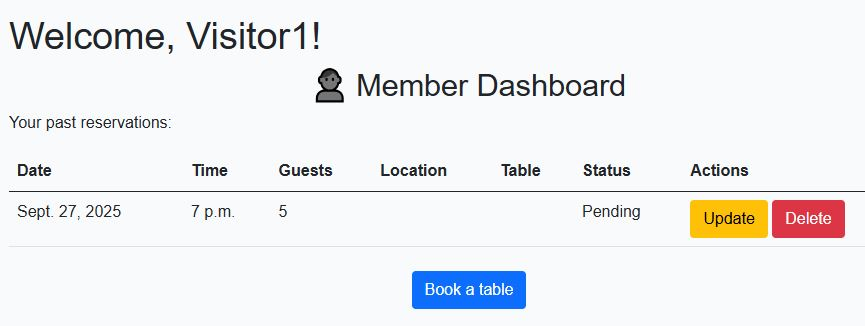
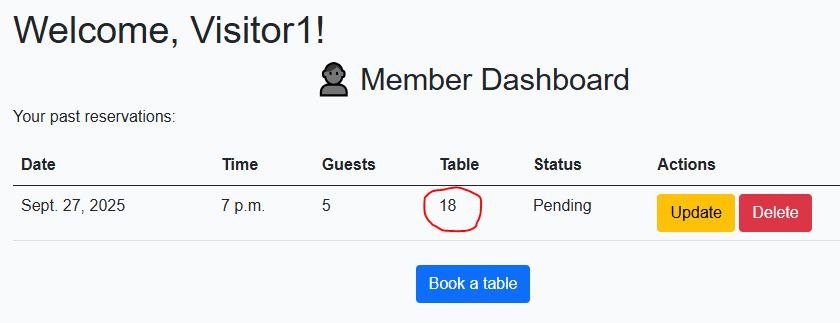
Update section on Booking Modification & Cancellation

diff --git a/templates/users-html/member.html b/templates/users-html/member.html
@@ -33,7 +33,6 @@
         <th>Date</th>
         <th>Time</th>
         <th>Guests</th>
-        <th>Location</th>
         <th>Table</th>
         <th>Status</th>
         <th>Actions</th>
@@ -45,8 +44,7 @@
         <td>{{ booking.booking_date }}</td>
         <td>{{ booking.booking_time }}</td>
         <td>{{ booking.num_of_guests }}</td>
-        <td>{{ booking.location.name }}</td>
-        <td>{{ booking.table.name }}</td>
+        <td>{{ booking.table.id }}</td>
         <td>{{ booking.booking_status.status }}</td>
         <td>
           <a

diff --git a/README.md b/README.md
@@ -665,12 +665,31 @@ Due to simplicity of the project and the limited time available, the manual test
 - ✅ Attempted to book same table at same time — correctly blocked by filtering out tables that are already booked within a ±1 hour window of the requested time
 - ✅ Booked different tables at overlapping times — allowed
 
+<details>
+    <summary>See corresponding snapshots</summary>
 
+- Already booked table removed from the booking list
+
+![Table is safely removed](./static/images/screenshots/screenshot-ommited-table-in-the-list.jpg)
+
+</details>
 
 #### 🗑 Booking Modification & Cancellation
-- ✅ Cancelled reservations from dashboard
-- ✅ Verified status updates and UI refresh
-- ✅ Checked ordering by `booked_on` timestamp
+- ✅ List of existing booking available for review
+- ✅ Option to cancel booking
+
+<details>
+    <summary>See corresponding snapshots</summary>
+
+- Booking cancellation routine
+
+![Table is safely removed](./static/images/screenshots/screenshot-booking-cencellation-path.jpg)
+
+- Update booking
+
+![Update booking with confirmation](./static/images/screenshots/screenshot-update-bokking-with-confirmation.jpg)
+
+</details>
 
 ### 🧭 Navigation & UX Testing
 
